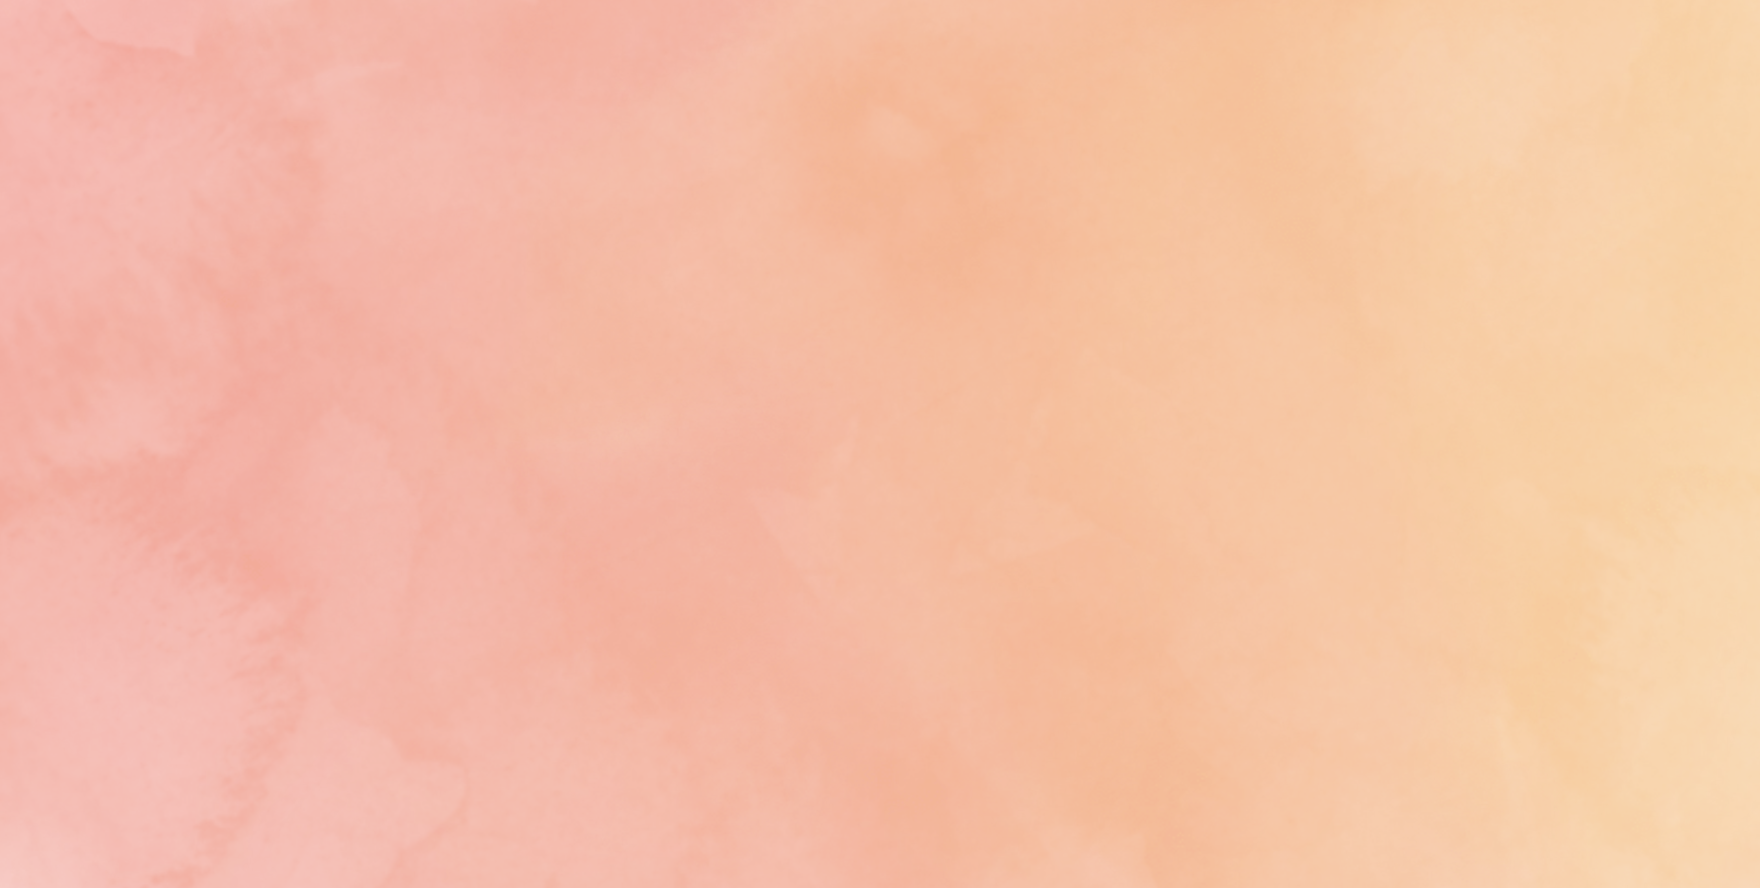
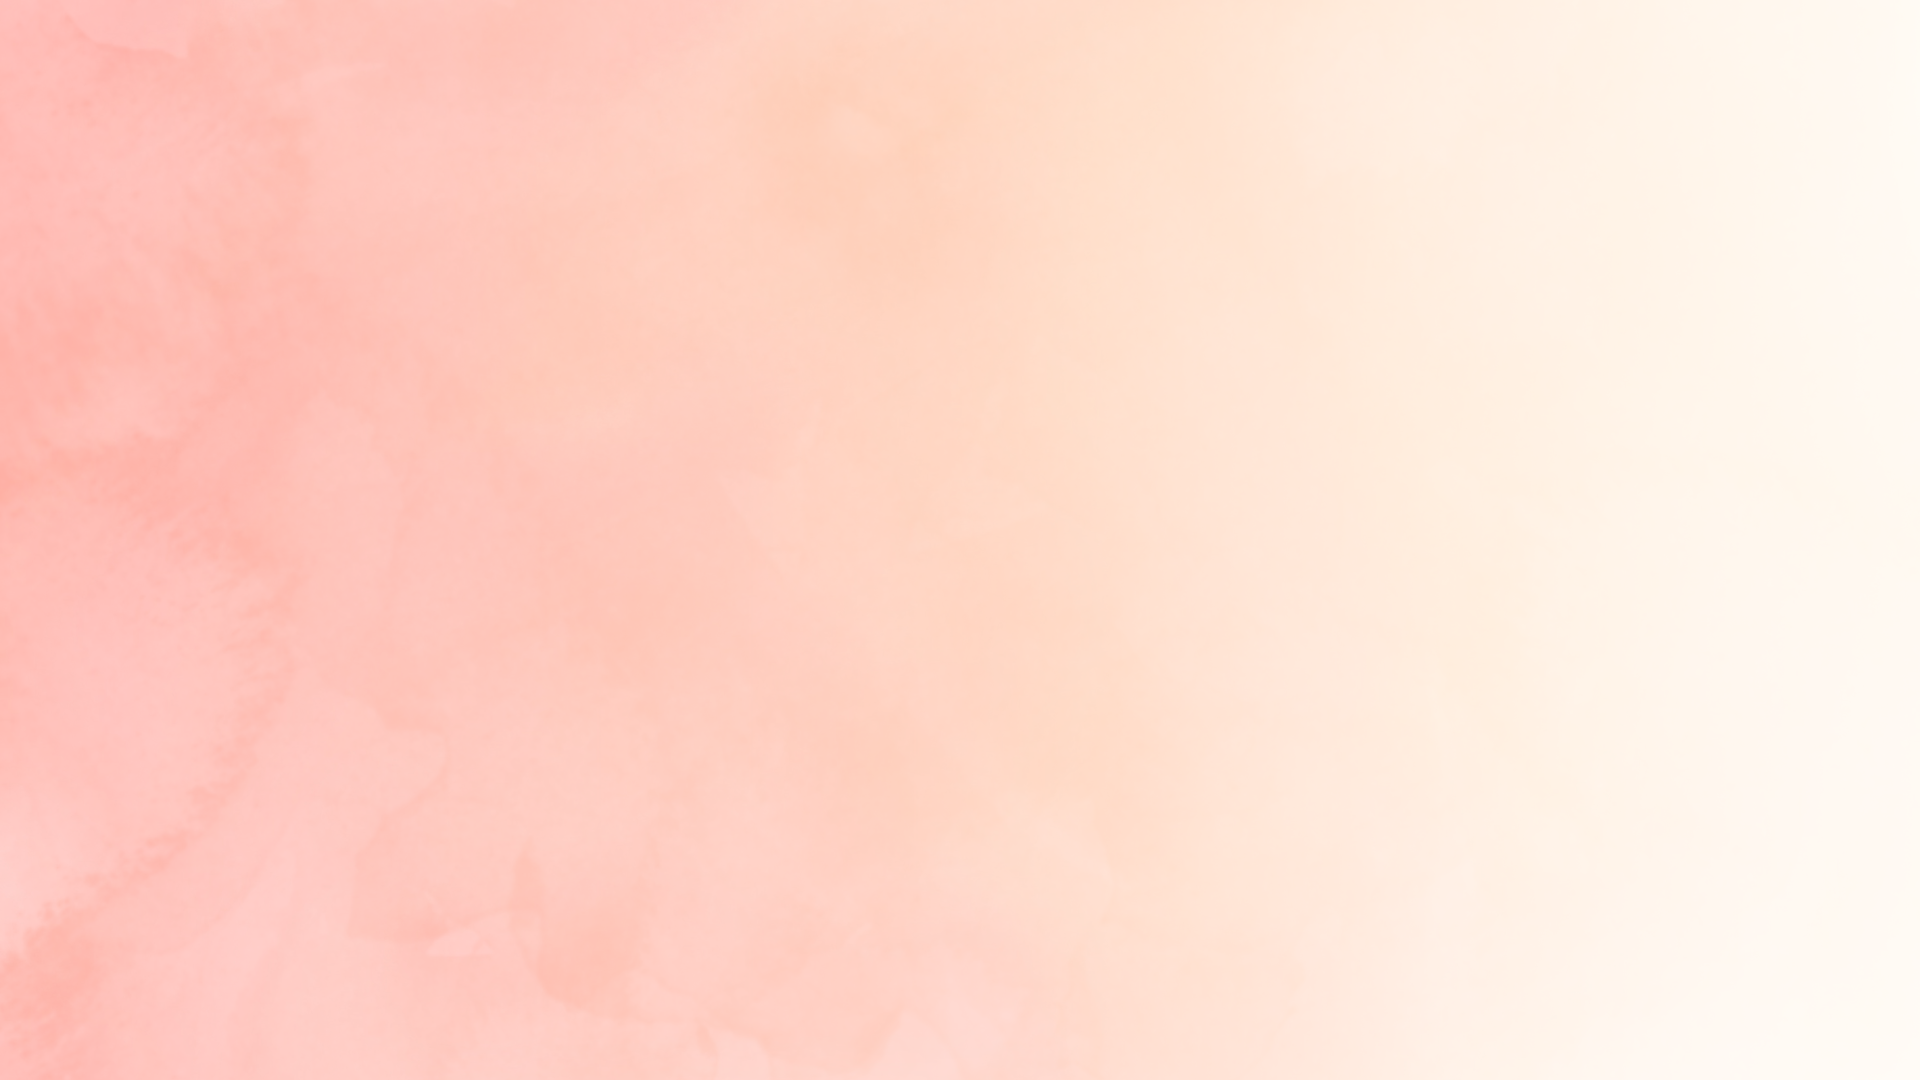
bubble animation

diff --git a/corallite/style.css b/corallite/style.css
@@ -2,7 +2,28 @@
   font-family: 'AntiqueOlive';
   src: url('fonts/antiqueOlive.otf');
 }
+.floating-fish {
+  animation: floatFish 6s ease-in-out infinite;
+}
 
+@keyframes floatFish {
+  0%, 100% {
+    transform: translateY(0px) rotate(0deg);
+  }
+
+  50% {
+    transform: translateY(-15px) rotate(3deg);
+  }
+}
+#tucker {
+    width: 800px;
+    opacity: calc(0.8);
+    height: auto;
+    display: block;
+    margin-bottom: -50px;
+    padding-top: 200px;
+    margin-left: 150px;
+}
 body {
   margin-left: 0;
   margin-right: 0;
@@ -52,7 +73,7 @@ html {
 .side-menu a {
   padding: 12px 20px;
   text-decoration: none;
-  font-size: 24px;
+  font-size: 21px;
   color: #f06b3a;
   display: block;
   transition: 0.3s;
@@ -99,7 +120,8 @@ html {
   top: 0;
   left: 0;
   width: 100%;
-  background-color: #ffffff;
+  background-color: rgba(255, 255, 255, 0.95);
+  backdrop-filter: blur(10px);
   display: flex;
   align-items: center;
   padding: 10px;
@@ -117,7 +139,7 @@ html {
   align-items: center;
   justify-content: space-between;
   background-image: url(watercolor.png);
-  font-size: xx-large;
+  font-size: x-large;
   margin-top: -100px;
   margin-bottom:-100px;
   padding-top: 100px;
@@ -125,14 +147,16 @@ html {
   color: #ffffff;
 }
 .mission-statement {
+    max-width: 600px;
     margin-left: 75px;
 }
 .intro {
+  transform: scaleX(-1);
   display: flex;
   align-items: center;
   justify-content: space-between;
   background-image: url(watercolor.png);
-  transform: scale(-1, -1);
+  
 }
 #fishy {
     margin-top: 40px;
@@ -153,13 +177,14 @@ html {
     flex-direction: column;
     align-items: center;
     justify-content: center;
-    background-color: rgb(255, 231, 182);
+    background-color: rgb(255, 164, 99);
     margin-top: -20px;
     gap: 20px;
     padding: 100px 100px;
 }
 
 .donateButton {
+    font-family: 'antiqueOlive', sans-serif;
     background-color: #ff61bd;
     color: #ffe0e3;
     font-size: large;
@@ -167,13 +192,13 @@ html {
     border: none;
     border-radius: 40px;
     cursor: pointer;
-    font-family: 'Courier New', Courier, monospace;
     width: 100px;
     transition: all 0.3s ease;
 
 }
 
 .donateButton:hover {
+    font-family: 'antiqueOlive', sans-serif;
     background-color: #ff7a55;
     width: 150px;
     height: auto;
@@ -187,7 +212,7 @@ html {
     flex-direction: column;
     align-items: center;
     justify-content: center;
-    background-color: rgb(232, 143, 126);
+    background-color: rgb(255, 234, 230);
     margin-top: -20px;
     gap: 20px;
     padding: 100px 100px;

diff --git a/corallite/index.html b/corallite/index.html
@@ -1,6 +1,6 @@
 
 
-</h2></div><!DOCTYPE html>
+<!DOCTYPE html>
 <html>
 <head>
   <link rel="stylesheet" href="style.css">
@@ -36,7 +36,7 @@
   <p class="mission-statement">
     Through Corallite Creators, our mission is to bring unique STEM experiences to students in underserved communities, fostering creativity, critical thinking, and a passion for learning.
   </p>
-  <img src="bubbles.gif">
+  <img src="tucker.png" id="tucker" class="floating-fish" alt="tucker">
 </div>
 
 
